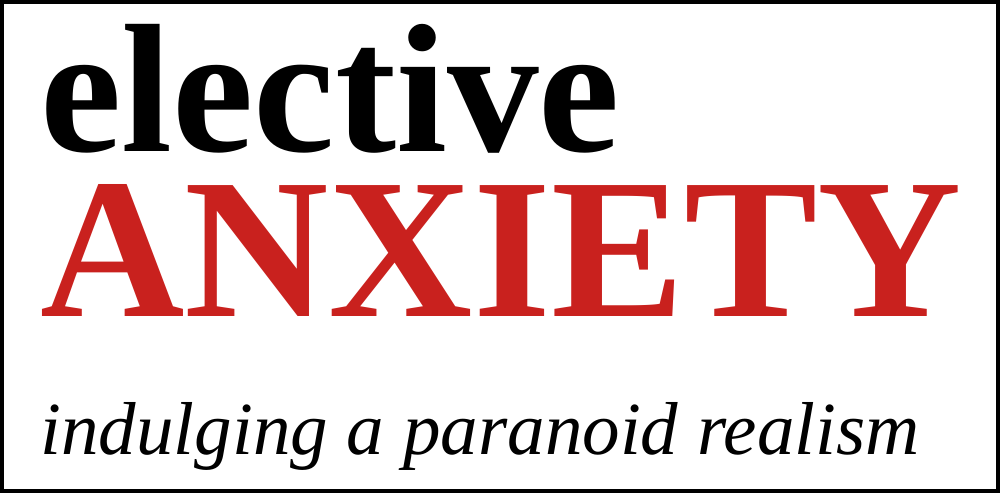
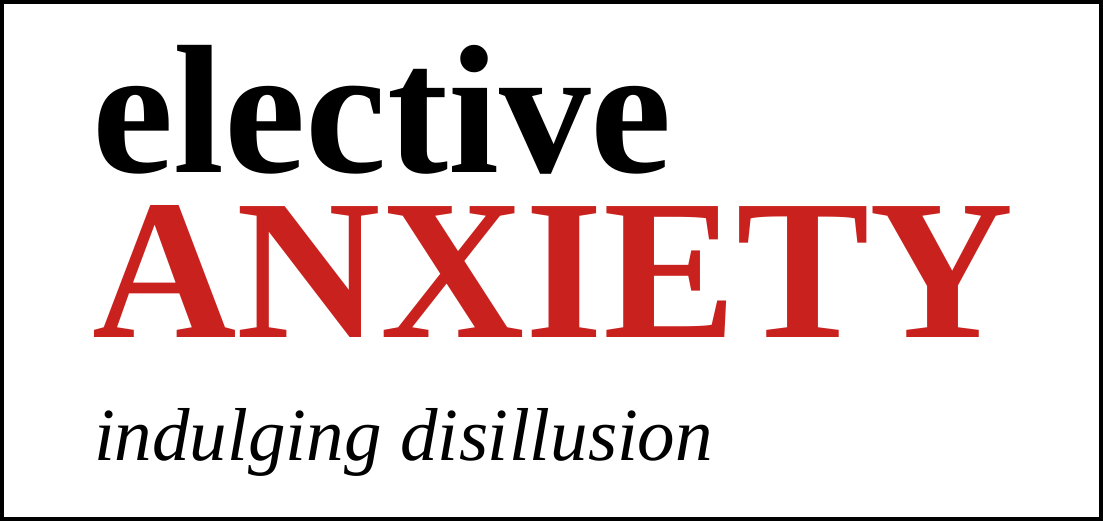
Changed around image names, inserted header.

diff --git a/essays/index.html b/essays/index.html
@@ -148,6 +148,7 @@ audio {
 	<img width=100  src="https://electiveanxiety.com/img/eA.png" alt="eA Logo">
 </p>
 <hr>
+<p><img src="img/marvellingAtThePanopticon.png" alt="Marvelling at the Panopticon"></p>
 <h3 id="upcoming-new-perspectives-on-the-origins-of-surveillance-realism">Upcoming: &ldquo;New Perspectives on the Origins of Surveillance Realism&rdquo;</h3>
 <p>Have thoughts or readings on the topic? <a href="https://electiveanxiety.com/contact/">Send them my way!</a></p>
 

diff --git a/index.html b/index.html
@@ -150,7 +150,7 @@ audio {
 <div id="home-jumbotron" class="jumbotron text-center">
 
   <h1></h1>
-  <p><img src="img/electiveAnxiety2.png" alt="elective Anxiety Logo"></p>
+  <p><img src="img/electiveAnxiety.png" alt="elective Anxiety Logo"></p>
 <hr>
 <p><span style="color: #c9211e"><em><strong>Elective Anxiety</strong></em> </span> <strong>is a blog dedicated to developing a thoughtful critique of technology and society.</strong></p>
 
